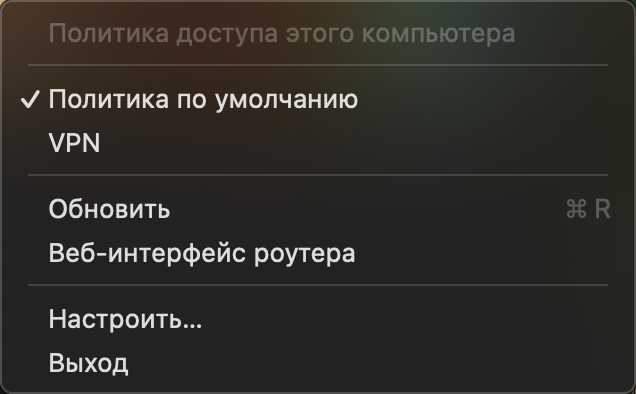
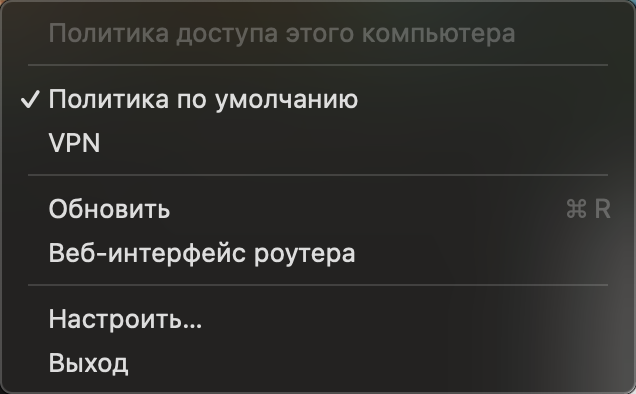
Use a template symbol for the default policy

Changed region(s): [[0.8962, 0.5178, 1.0, 1.0], [0.9858, 0.0, 1.0, 0.0305]]

diff --git a/sources/main.swift b/sources/main.swift
@@ -753,7 +753,7 @@ final class AppDelegate: NSObject, NSApplicationDelegate, NSMenuDelegate {
 
         statusItem = NSStatusBar.system.statusItem(withLength: NSStatusItem.variableLength)
         statusItem.button?.font = NSFont.systemFont(ofSize: 12, weight: .medium)
-        statusItem.button?.title = "…"
+        setStatus(symbol: nil, title: "…")
 
         menu.delegate = self
         statusItem.menu = menu
@@ -833,7 +833,7 @@ final class AppDelegate: NSObject, NSApplicationDelegate, NSMenuDelegate {
             return
         }
 
-        statusItem.button?.title = "…"
+        setStatus(symbol: nil, title: "…")
         queue.async { [weak self] in
             guard let self else { return }
             let router = Router(config: config, password: password)
@@ -874,7 +874,7 @@ final class AppDelegate: NSObject, NSApplicationDelegate, NSMenuDelegate {
         menu.removeAllItems()
 
         if lastError == L10n.t("error.notConfigured") {
-            statusItem.button?.title = "⚠"
+            setStatus(symbol: "exclamationmark.triangle", title: "⚠")
             statusItem.button?.toolTip = L10n.t("status.notConfigured")
             menu.addItem(disabled(L10n.t("menu.header")))
             menu.addItem(.separator())
@@ -887,15 +887,15 @@ final class AppDelegate: NSObject, NSApplicationDelegate, NSMenuDelegate {
         if let current, let policy = policies.first(where: { $0.name == current }) {
             let title = displayTitle(for: policy, config: config)
             if policy.isDefault && config.labels["default"] == nil {
-                statusItem.button?.title = "🌐"
+                setStatus(symbol: "globe", title: "🌐")
             } else if title.count > 18 {
-                statusItem.button?.title = String(title.prefix(17)) + "…"
+                setStatus(symbol: nil, title: String(title.prefix(17)) + "…")
             } else {
-                statusItem.button?.title = title
+                setStatus(symbol: nil, title: title)
             }
             statusItem.button?.toolTip = L10n.t("status.tooltip", title)
         } else {
-            statusItem.button?.title = "🌐"
+            setStatus(symbol: "globe", title: "🌐")
             statusItem.button?.toolTip = L10n.t("status.unknown")
         }
 
@@ -932,6 +932,23 @@ final class AppDelegate: NSObject, NSApplicationDelegate, NSMenuDelegate {
         menu.addItem(.separator())
         menu.addItem(item(L10n.t("menu.setup"), #selector(openSetup)))
         menu.addItem(item(L10n.t("menu.quit"), #selector(quit)))
+    }
+
+    /// Template symbols follow the menu bar's appearance, emoji do not.
+    private func setStatus(symbol: String?, title: String) {
+        guard let button = statusItem.button else { return }
+        if let symbol, let base = NSImage(systemSymbolName: symbol, accessibilityDescription: nil) {
+            let configuration = NSImage.SymbolConfiguration(pointSize: 14, weight: .regular)
+            let image = base.withSymbolConfiguration(configuration) ?? base
+            image.isTemplate = true
+            button.image = image
+            button.imagePosition = .imageOnly
+            button.title = ""
+        } else {
+            button.image = nil
+            button.imagePosition = .noImage
+            button.title = title
+        }
     }
 
     private func item(_ title: String, _ action: Selector) -> NSMenuItem {
